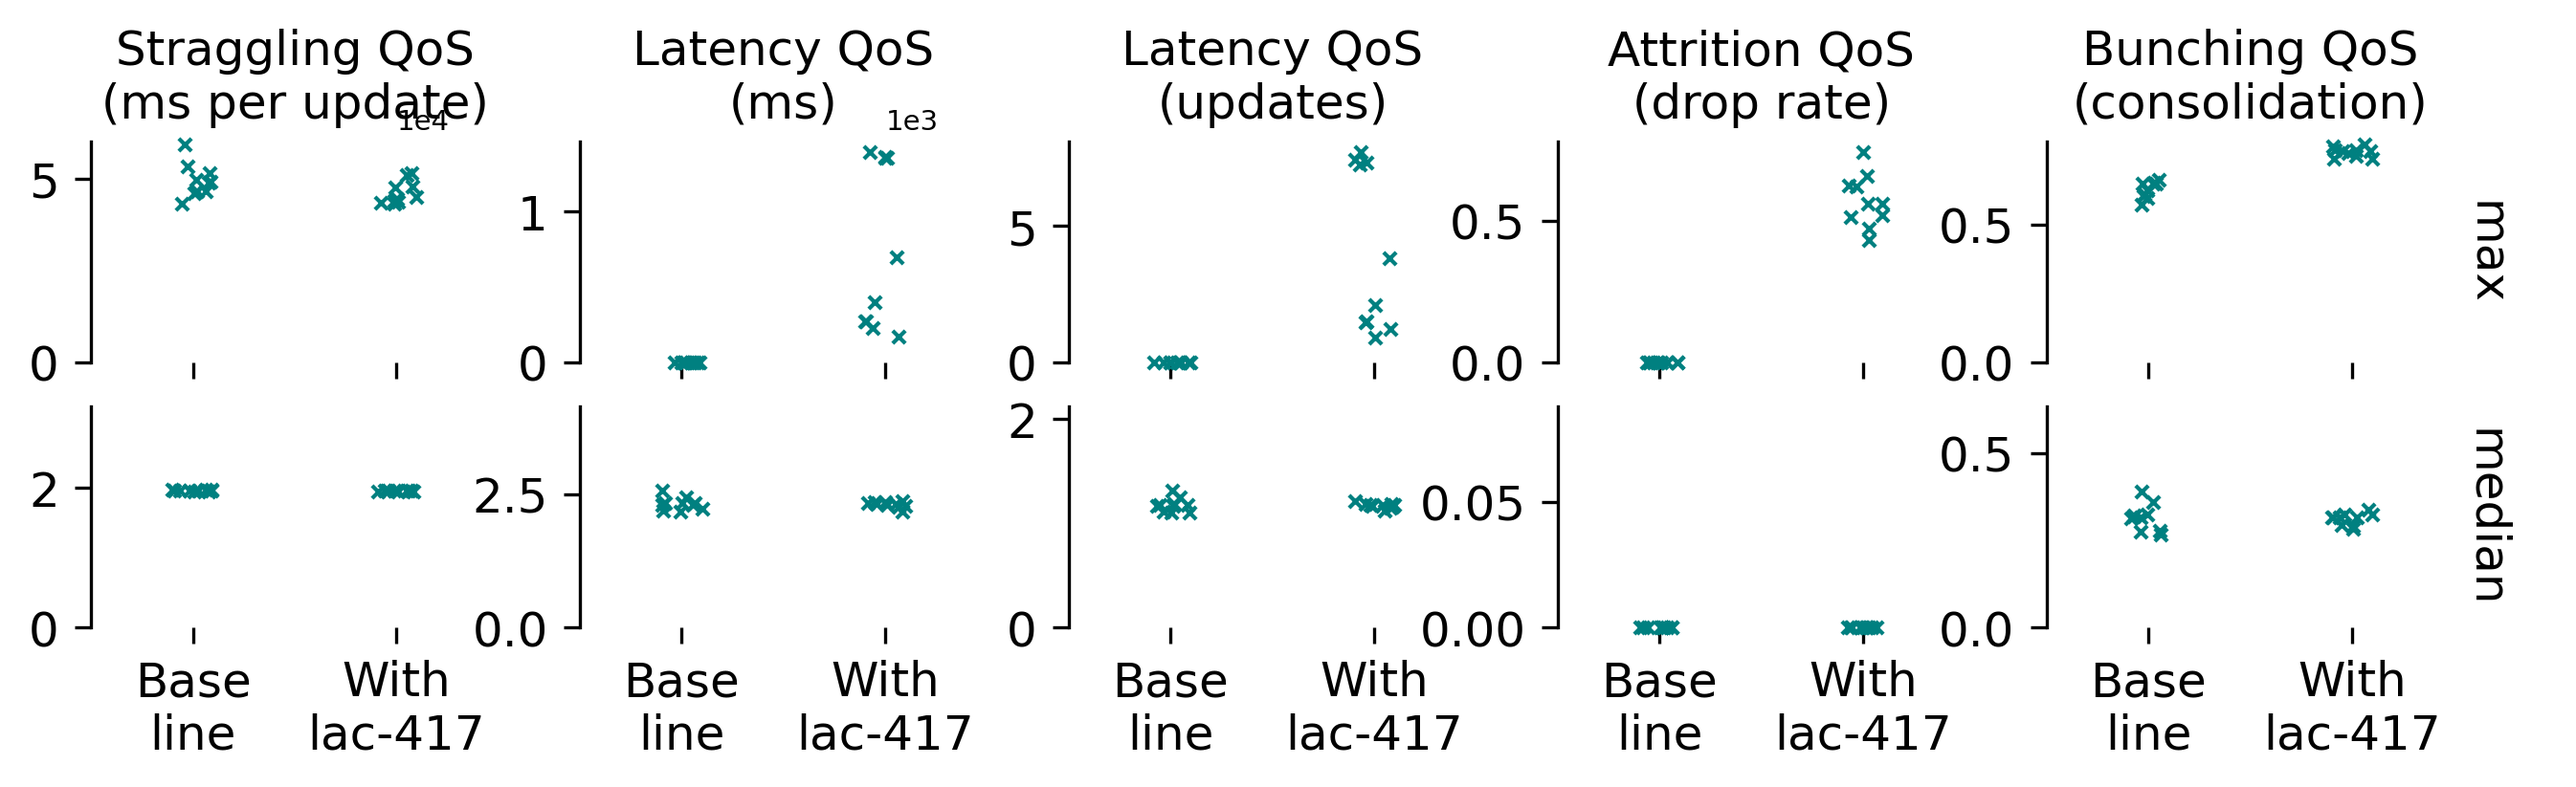
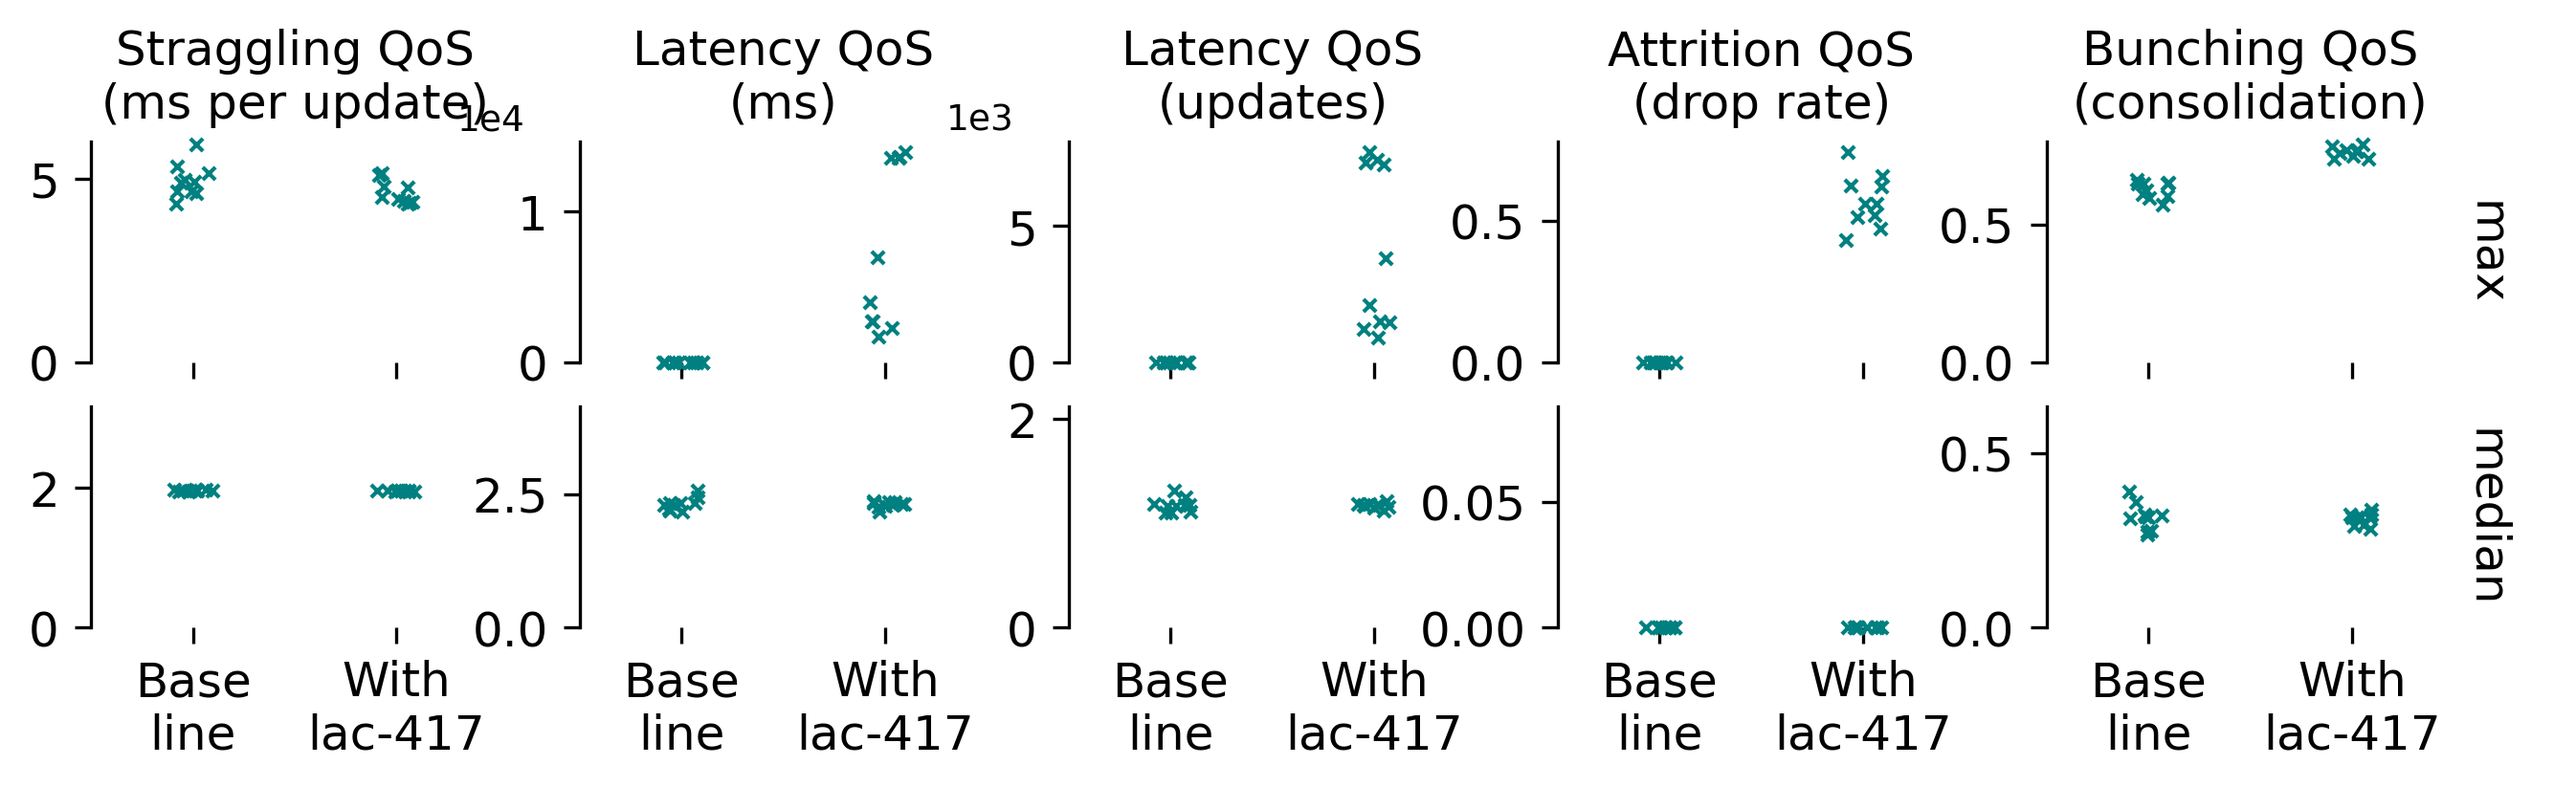
Deploying to bindle-2026-05-16-lac-417.py (enlarge/re-center 1e3/1e4 offset text a bit)

diff --git a/bindle/2026-05-16-lac-417.py b/bindle/2026-05-16-lac-417.py
@@ -60,9 +60,11 @@ def do_watermark(mo, watermark):
 
 @app.cell(hide_code=True)
 def delimit_prep_data(mo):
-    mo.md("""
+    mo.md(
+        """
     ## Prep Data
-    """)
+    """
+    )
     return
 
 
@@ -345,9 +347,9 @@ def _(
         plt.subplots_adjust(hspace=0.2, wspace=0.2)
         for _ax in _g.axes.flat:
             _ax.ticklabel_format(style="sci", axis="y", scilimits=(-4, 3))
-            _ax.yaxis.get_offset_text().set_x(-0.45)
+            _ax.yaxis.get_offset_text().set_x(-0.3)
             _ax.yaxis.get_offset_text().set_y(0.5)
-            _ax.yaxis.get_offset_text().set_fontsize(7)
+            _ax.yaxis.get_offset_text().set_fontsize(9)
         for _ax in _g.axes[1, :].flat:
             _ax.set_ylim(1.6 * np.array(_ax.get_ylim()))
         sns.despine(fig=_g.figure, bottom=True)
@@ -487,15 +489,15 @@ def _(
         teeplot_show=True,
         teeplot_subdir=pathlib.Path(__file__).stem,
     ) as _g:
-        _g.figure.set_size_inches(9.8, 1.6)
+        _g.figure.set_size_inches(8.3, 1.36)
         _g.set_titles(col_template="{col_name}", row_template="{row_name}")
         _g.set(ylim=(0, None), xlabel="", ylabel="")
         plt.subplots_adjust(hspace=0.2, wspace=0.7)
         for _ax in _g.axes.flat:
             _ax.ticklabel_format(style="sci", axis="y", scilimits=(-4, 3))
-            _ax.yaxis.get_offset_text().set_x(-0.45)
+            _ax.yaxis.get_offset_text().set_x(-0.3)
             _ax.yaxis.get_offset_text().set_y(0.5)
-            _ax.yaxis.get_offset_text().set_fontsize(7)
+            _ax.yaxis.get_offset_text().set_fontsize(9)
         for _ax in _g.axes[1, :].flat:
             _ax.set_ylim(1.6 * np.array(_ax.get_ylim()))
         sns.despine(fig=_g.figure, bottom=True)
